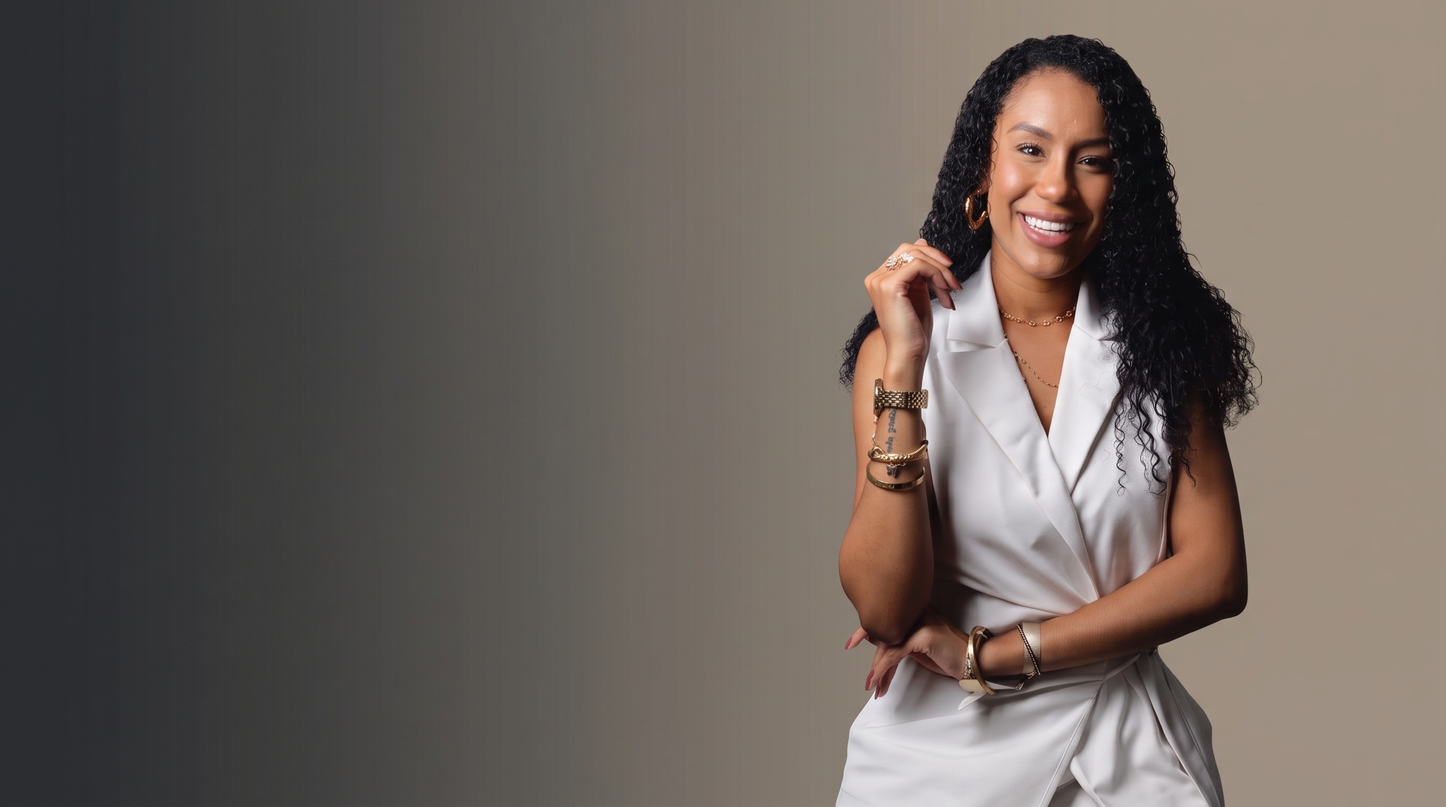
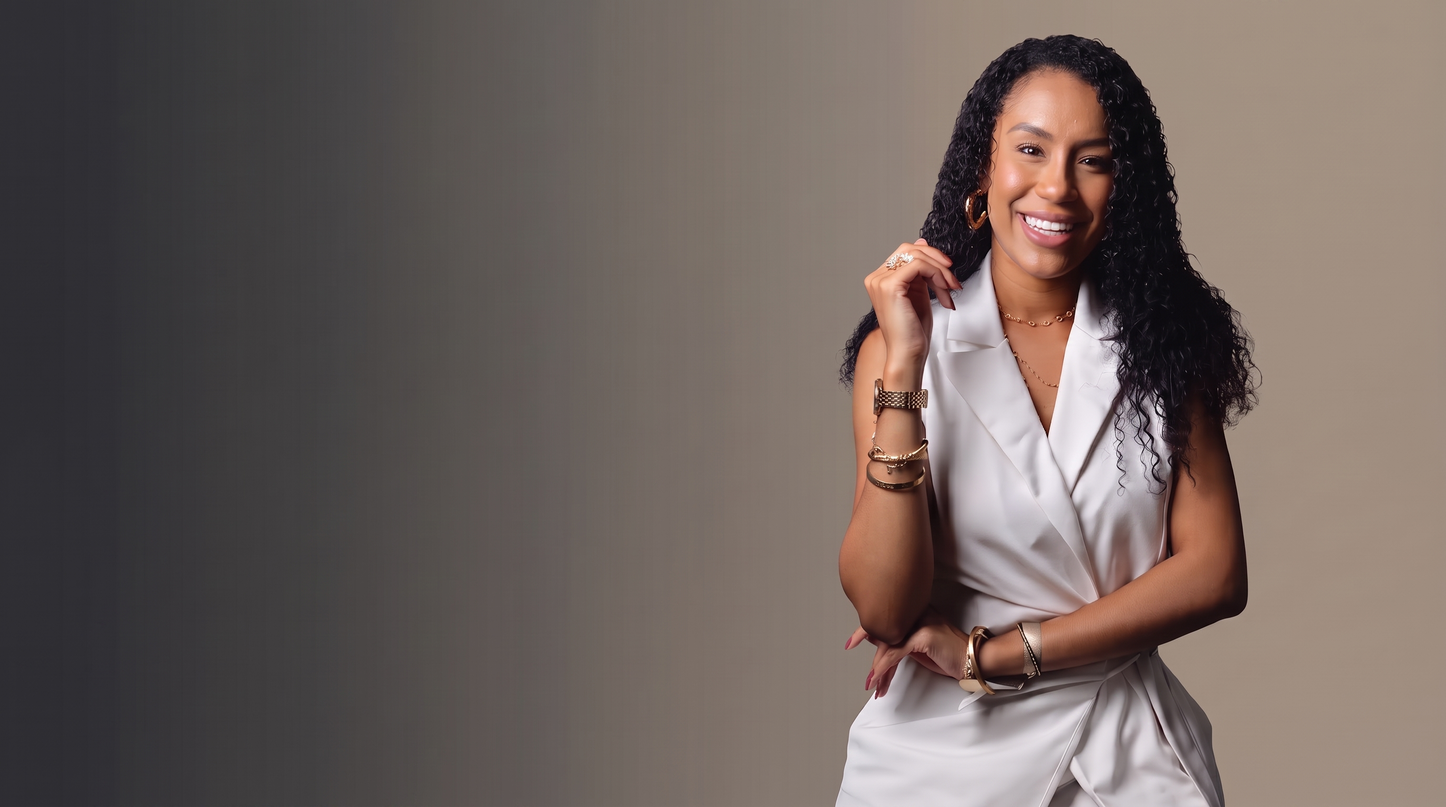
Adição da seção Local de atendimento

diff --git a/index.html b/index.html
@@ -28,6 +28,7 @@
         <a href="#para-quem">Para quem é</a>
         <a href="#beneficios">Benefícios</a>
         <a href="#planos">Planos</a>
+        <a href="#local">Local de Atendimento</a>
         <a href="#faq">FAQ</a>
       </nav>
       <a href="https://wa.me/557199945908?text=Ol%C3%A1%2C%20nutri!%20Tenho%20interesse%20em%20mudar%20a%20minha%20alimenta%C3%A7%C3%A3o%20e%20fazer%20parte%20do%20%23TeamNutriNath%E2%9C%A8" target="_blank" rel="noopener" class="btn btn-primary btn-sm nav-cta">
@@ -280,6 +281,43 @@
         <p class="lead">Pós-graduada em Nutrição Esportiva, Nutrição Clínica e Terapia Nutricional, sou apaixonada pela nutrição e ajudar pessoas a alcançarem resultado real sem terrorismo alimentar.</p>
         <p class="lead">Ao longo da minha trajetória, já passei por hospitais, clínicas, ambiente esportivo e corporativo, já realizei mais  1000 atendimentos, e pude entender que cada rotina é única e a individualidade do atendimento é importante.</p>
         <p class="lead">Meu objetivo é fazer que a nutrição que eu prático, seja parte da sua vida e se encaixe na sua rotina, pois um plano alimentar precisa ser perfeito na prática e não apenas no papel.</p>
+      </div>
+    </div>
+  </section>
+
+  <!-- LOCAL DE ATENDIMENTO -->
+  <section class="section" id="local">
+    <div class="container">
+      <div class="section-head reveal">
+        <span class="eyebrow">Onde te atendo</span>
+        <h2>Local de atendimento presencial</h2>
+      </div>
+
+      <div class="location-card reveal">
+        <div class="location-info">
+          <span class="eyebrow">Local de atendimento</span>
+          <h3 class="location-name">Condomínio Metropolis Empresarial</h3>
+
+          <div class="location-detail">
+            <span class="location-icon" aria-hidden="true">📍</span>
+            <p>R. Dr. José Peroba, 275<br>STIEP, Salvador/BA<br>CEP 41770-235</p>
+          </div>
+
+          <div class="location-detail">
+            <span class="location-icon" aria-hidden="true">🕐</span>
+            <p>[Dias e horários de atendimento presencial]</p>
+          </div>
+
+          <a href="https://wa.me/557199945908?text=Ol%C3%A1%2C%20nutri!%20Gostaria%20de%20agendar%20uma%20consulta%20presencial%20%23TeamNutriNath%E2%9C%A8" target="_blank" rel="noopener" class="btn btn-primary location-cta">
+            Quero agendar agora!
+          </a>
+        </div>
+
+        <div class="location-image">
+          <img src="local.jpg" alt="Consultório onde Nathalia Caroline realiza os atendimentos presenciais" />
+        </div>
+      </div>
+    </div>
   </section>
 
   <!-- DEPOIMENTOS -->

diff --git a/style.css b/style.css
@@ -522,6 +522,68 @@ p  { margin: 0; }
 }
 
 /* =========================================
+   LOCAL DE ATENDIMENTO
+   ========================================= */
+.location-card {
+  margin-top: var(--space-2xl);
+  display: grid;
+  grid-template-columns: 1fr 1fr;
+  border-radius: var(--radius-lg);
+  overflow: hidden;
+  box-shadow: var(--shadow-lg);
+}
+.location-info {
+  background: var(--color-bg-soft);
+  padding: var(--space-2xl);
+  display: flex;
+  flex-direction: column;
+  gap: var(--space-md);
+  justify-content: center;
+}
+.location-info .eyebrow { align-self: flex-start; }
+.location-name {
+  color: var(--color-primary);
+  margin: 4px 0 6px;
+}
+.location-detail {
+  display: flex;
+  align-items: flex-start;
+  gap: 12px;
+}
+.location-icon {
+  font-size: 1.15rem;
+  line-height: 1.6;
+  flex-shrink: 0;
+}
+.location-detail p {
+  color: var(--color-text-muted);
+  line-height: 1.6;
+}
+.location-cta {
+  margin-top: var(--space-sm);
+  align-self: flex-start;
+}
+.location-image {
+  min-height: 340px;
+  background: var(--color-bg-soft);
+}
+.location-image img {
+  width: 100%;
+  height: 100%;
+  object-fit: cover;
+}
+
+@media (max-width: 1024px) {
+  .location-card { grid-template-columns: 1fr; }
+  .location-image { min-height: 280px; order: -1; }
+}
+
+@media (max-width: 720px) {
+  .location-info { padding: var(--space-xl); }
+  .location-cta { align-self: stretch; justify-content: center; }
+}
+
+/* =========================================
    TESTIMONIALS
    ========================================= */
 .testimonials {
